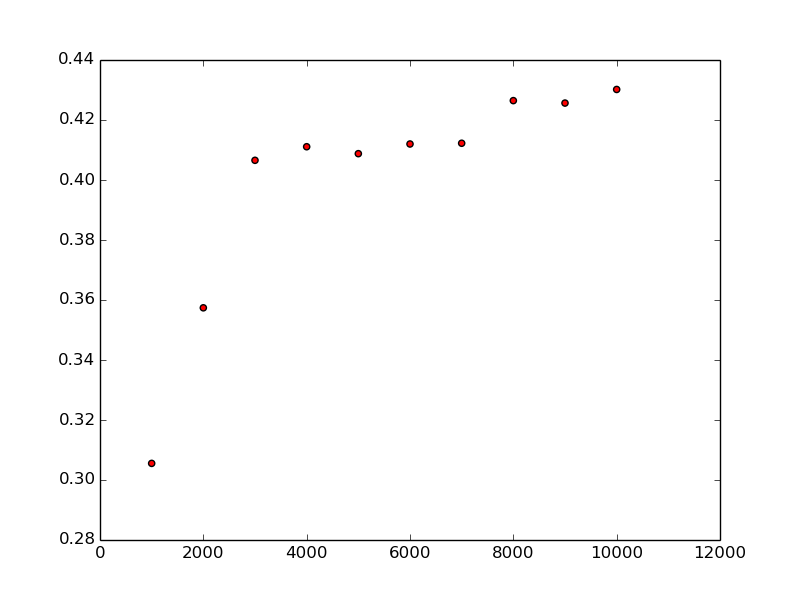
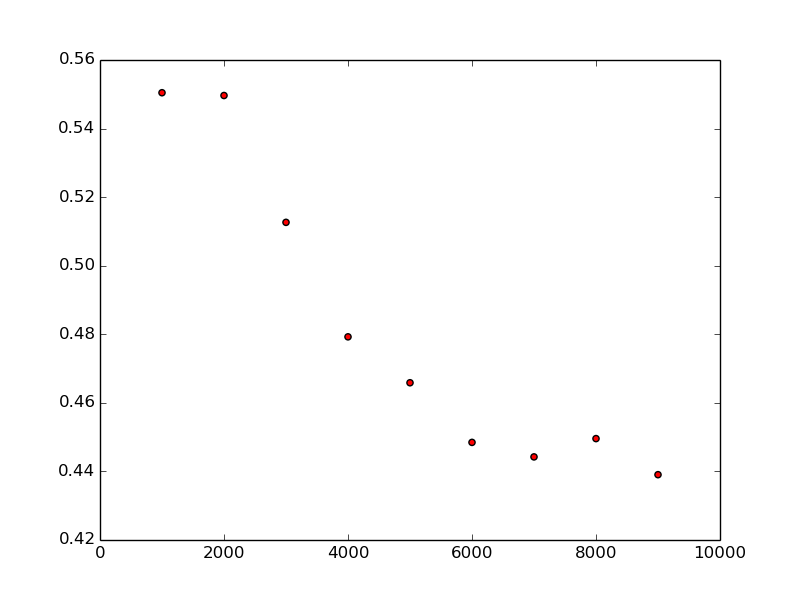
new stuff

diff --git a/Final/plots.py b/Final/plots.py
@@ -9,7 +9,7 @@ from textwrap import wrap
 plt.ioff()
 
 def counting(n):
-    while n < 10001:
+    while n < 10000:
         yield n
         n += 1000
 
@@ -19,9 +19,9 @@ def average(x): #finds the average of a list
 error = []
 nop = []
 
-NR=20
-NP=20
-NT=20
+NR=100
+NP=100
+NT=100
 
 for x in counting(1000):
     nop.append(x)
@@ -40,29 +40,42 @@ for x in counting(1000):
     t_num = np.loadtxt(opticaldepth_num)
     d_ana = np.loadtxt(density_ana)
     d_num = np.loadtxt(density_num)
-    # print (np.size(d_num))
-    # print(np.size(d_ana))
-    # print (np.size(t_num))
-    # print(np.size(t_ana))
+    print (np.size(d_num))
+    print(np.size(d_ana))
+    print (np.size(t_num))
+    print(np.size(t_ana))
 
-    ta_norm = t_ana / max(t_ana)
-    tn_norm = t_num / max(t_num)
-    da = d_ana / max(d_ana)
-    dn = d_num / max(d_num)
+    # ta_norm = t_ana / max(t_ana)
+    # print(np.size(ta_norm))
+    # tn_norm = t_num / max(t_num)
+    # print(np.size(tn_norm))
+    # da = d_ana / max(d_ana)
+    # print(np.size(da))
+    # dn = d_num / max(d_num)
+    # print(np.size(dn))
+
+    # logdn = []
+    #
+    # for i in range(np.size(dn)):
+    #     if dn[i] > 0.:
+    #         logd = np.log(dn[i])
+    #         logdn.append(logd)
+    #     else:
+    #         logdn.append(0.)
+    #
+    # print(np.size(logdn))
+    # print(logdn)
 
     ta3d = np.reshape(t_ana,(NR+1,NP+1,NT+1),order='C')
     tn3d = np.reshape(t_num,(NR+1,NP+1,NT+1),order='C')
     da3d = np.reshape(d_ana,(NR+1,NP+1,NT+1),order='C')
-    dn3d = np.reshape(d_num,(NR,NP,NT),order='C')
+    dn3d = np.reshape(d_num,(NR+1,NP+1,NT+1),order='C')
 
     rms = []
     ana = np.asarray(t_ana)
     num = np.asarray(t_num)
     for i in range(np.size(ana)):
-        if num[i] == 0.:
-            rms_elem = 0.
-            rms.append(rms_elem)
-        else:
+        if num[i] > 0.:
             e = (num[i]-ana[i])/num[i]
             rms_elem = np.sqrt(e**2.)
             rms.append(rms_elem)
@@ -70,32 +83,32 @@ for x in counting(1000):
     print (err)
     error.append(float(err))
 
-    plt.figure(x)
-    plt.subplot(222)
-    plt.contourf(flat_phi, flat_theta, ta3d[:,:,-1])
-    plt.colorbar()
-    plt.title("Analytical optical depth")
-    plt.xlabel("phi")
-    plt.ylabel("theta")
-    plt.subplot(224)
-    plt.contourf(flat_phi, flat_theta, tn3d[:,:,-1])
-    plt.colorbar()
-    plt.title("Numerical optical depth")
-    plt.xlabel("phi")
-    plt.ylabel("theta")
-    plt.subplot(221)
-    plt.contourf(flat_phi, flat_theta, da3d[:,:,-1])
-    plt.colorbar()
-    plt.title("Analytical density")
-    plt.xlabel("phi")
-    plt.ylabel("theta")
-    plt.subplot(223)
-    plt.contourf(dn3d[:,:,-1])
-    plt.colorbar()
-    plt.title("Numerical density")
-    plt.xlabel("phi")
-    plt.ylabel("theta")
-    plt.show()
+    # plt.figure(x)
+    # plt.subplot(222)
+    # plt.contourf(flat_phi, flat_theta, ta3d[:,:,-1])
+    # plt.colorbar()
+    # plt.title("Analytical optical depth")
+    # plt.xlabel("phi")
+    # plt.ylabel("theta")
+    # plt.subplot(224)
+    # plt.contourf(flat_phi, flat_theta, tn3d[:,:,-1])
+    # plt.colorbar()
+    # plt.title("Numerical optical depth")
+    # plt.xlabel("phi")
+    # plt.ylabel("theta")
+    # plt.subplot(221)
+    # plt.contourf(flat_phi, flat_theta, da3d[:,:,50])
+    # plt.colorbar()
+    # plt.title("Analytical density")
+    # plt.xlabel("phi")
+    # plt.ylabel("theta")
+    # plt.subplot(223)
+    # plt.contourf(flat_phi, flat_theta, dn3d[:,:,50])
+    # plt.colorbar()
+    # plt.title("Numerical density")
+    # plt.xlabel("phi")
+    # plt.ylabel("theta")
+    # plt.show()
 
 plt.figure()
 plt.scatter(nop,error,c='r',marker='o')

diff --git a/Final/main.cpp b/Final/main.cpp
@@ -9,9 +9,9 @@ int main() {
 
     //cout << "start" << endl;
     //setting constants
-    NR=20;
-    NP=20;
-    NT=20;
+    NR=100;
+    NP=100;
+    NT=100;
     //nr=(NR-1.)/2.;
 
     rmin = 0.;
@@ -25,34 +25,35 @@ int main() {
     Tmin = 0.;
     Tmax = M_PI;
 
-    R_B=0.9; //A and B are in terms of a
-    P_B=0.9;
-    T_B=0.9;
+    R_B=0.2; //A and B are in terms of a
+    P_B=0.2;
+    T_B=0.2;
 
-    R_C=6.; //sd of gaussian grid = 2/C
-    P_C=6.;
-    T_C=6.;
+    // R_C=3.; //sd of gaussian grid = 2/C
+    // P_C=3.;
+    // T_C=3.;
 
     R_mu=(Rmax-Rmin)/2.;
-    R_sd=R_mu/R_C;
+    R_sd=R_mu*0.1;
     P_mu=(Pmax-Pmin)/2.;
-    P_sd=Pmax/P_C;
+    P_sd=Pmax*0.1;
     T_mu=(Tmax-Tmin)/2.;
-    T_sd=Tmax/T_C;
+    T_sd=Tmax*0.1;
 
     //for density
     T_mean = (Tmax-Tmin)/2.0; //in dimensionless units - this should be at a.
-    T_stde = T_mean*0.35; //arbitrary
+    T_stde = T_mean*0.1; //arbitrary
     P_mean = (Pmax-Pmin)/2.0; //in dimensionless units - this should be at a.
-    P_stde = P_mean*0.35; //arbitrary
+    P_stde = P_mean*0.1; //arbitrary
     R_mean = (Rmax-Rmin)/2.0; //in dimensionless units - this should be at a.
-    R_stde = R_mean*0.35; //arbitrary
+    R_stde = R_mean*0.1; //arbitrary
 
     //for counter thing
     mass = 1.;
 
     //clearing vectors
     //cout << "delete start" << endl;
+
     delete[] Ta;
     Ta = new double[NT+1];
     delete[] Tb;
@@ -210,7 +211,7 @@ int main() {
     make_gauss(NT, NP, NR);
     //cout << "im working" << endl;
     find_inv(NT, NP, NR,T_B, P_B, R_B, T_g, P_g, R_g);
-  //  cout << "still working" << endl;
+    //cout << "still working" << endl;
     find_DR(NT, NP, NR, T_A=((Tmax-Tmin)/T_suminv), P_A=((Pmax-Pmin)/P_suminv), R_A=((Rmax-Rmin)/R_suminv), T_inv, P_inv, R_inv);
     //cout << "found that DR" << endl;
     // file_creator_gaussian(g,x);
@@ -249,6 +250,7 @@ int main() {
     // file_creator_total_mass(NT,NP,NR,total_mass);
     //cout << "done" << endl;
     //cout << "BAA5" << endl;
+    cout << noparticles << endl;
   }
 
   return 0;

diff --git a/Final/functions.cpp b/Final/functions.cpp
@@ -208,7 +208,7 @@ double calculate_mass(int NT, int NP, int NR, double*** d){
       }
     }
   }
-  cout << "TMASS = " << TMASS << endl;
+  //cout << "TMASS = " << TMASS << endl;
   return TMASS;
 }
 
@@ -243,21 +243,19 @@ void density_fill(int NT, int NP, int NR, double T_mean, double P_mean, double R
     //cout << R_vec[x] << endl;
   }
 
-  int p[20] = {0};
-  int t[20] = {0};
-  int r[20] = {0};
   tmass = 0.;
+  //int r[100] = {0};
 
   for(int x=0; x<=noparticles; x++){//iterating through particles
-    for(int i=is(NT)+1; i<ie(NT); i++){
+    for(int i=is(NT); i<=ie(NT); i++){
       if((Ta[i]<=T_vec[x]) && (T_vec[x]<Ta[i+1])){
-        t[i] += 1.;
-        for(int j=js(NP)+1; j<je(NP); j++){
+        // t[i] += 1.;
+        for(int j=js(NP); j<=je(NP); j++){
           if((Pa[j]<=P_vec[x]) && (P_vec[x]<Pa[j+1])){
-            p[j] += 1.;
-            for(int k=ks(NR)+1; k<ke(NR); k++){
+            // p[j] += 1.;
+            for(int k=ks(NR); k<=ke(NR); k++){
               if((Ra[k]<=R_vec[x]) && (R_vec[x]<Ra[k+1])){
-                r[k] += 1.;
+                //r[k] += 1.;
                 double den_new = den[i][j][k]+((TMASS/(Mstar_kg*noparticles))/(((pow(Ra[k+1],3.)-pow(Ra[k],3.))/3.)*(-cos(Ta[i+1])+cos(Ta[i]))*(dPa[j])));
                 den[i][j][k] = den_new;
                 tmass += (TMASS/noparticles);
@@ -268,9 +266,9 @@ void density_fill(int NT, int NP, int NR, double T_mean, double P_mean, double R
       }
     }
   }
-  cout << "tmass = " << tmass << endl;
+  //cout << "tmass = " << tmass << endl;
 
-  for(int i=0; i<20; i++){
+  for(int i=0; i<NR; i++){
     //cout << r[i] << endl;
   }
 }

diff --git a/Final/reader.cpp b/Final/reader.cpp
@@ -1,0 +1,48 @@
+#include<iostream>
+#include<fstream>
+#pragma pack(push)
+#pragma pack(1)
+#pragma pack(pop)
+
+using namespace std;
+
+struct DataPoint {
+   double time;
+   long int id;
+   double xPos;
+   double yPos;
+   double zPos;
+   double psize;
+ }
+
+void read_binary(string file_name){
+  file.open(file_name.c_str(),ios::binary);
+  if(!file.is_open())
+  {
+     cerr << "File noT found \n";
+     exit(EXIT_FAILURE);
+  }
+  // ifstream file_to_open(file_name.c_str(), ios::binary);
+  // ofstream file_to_write("output.txt");
+
+  DataPoint data;
+
+  file.read((char*) &data,sizeof(data));
+
+  // for(int i = 0; i < 3; i++)
+  //     file_to_write.write((char *) &time[i], sizeof(DataPoint));
+  //  file_to_write.close();
+  // float value;
+  //
+  //   if(file_to_open.is_open()){
+  //     while(!file_to_open.eof()){
+  //       file_to_open.read((char*)&value,sizeof(float));
+  //       file_to_write << value << "\n";
+  //
+  //     }
+  //   }
+}
+
+ int main() {
+   read_binary("/Users/annawilson/Downloads/output_optical_depth.bin");
+ }

diff --git a/Final/file_creators.cpp b/Final/file_creators.cpp
@@ -179,11 +179,11 @@ void file_creator_den(double*** den, int NT, int NP, int NR) {//textfile of dens
   title << "/Users/annawilson/Documents/GitHub/Dusty_Tails/Text_files/density_num_nop=" << noparticles;
   ofstream myfile (title.str()+".txt");
   if (myfile.is_open()) {
-    for (i=is(NT); i<ie(NT); i++) { //looping over THETA coordinates
+    for (i=is(NT); i<=ie(NT); i++) { //looping over THETA coordinates
       char string[15];
       // myfile << Ra[i] << ",";
-      for (j=js(NP); j<je(NP); j++){ //looping over PHI coordinates
-        for (k=ks(NR); k<ke(NR); k++){ //looping over R coordinates
+      for (j=js(NP); j<=je(NP); j++){ //looping over PHI coordinates
+        for (k=ks(NR); k<=ke(NR); k++){ //looping over R coordinates
           myfile << den[i][j][k] << endl; //d[theta][phi][R]
         }
       }
